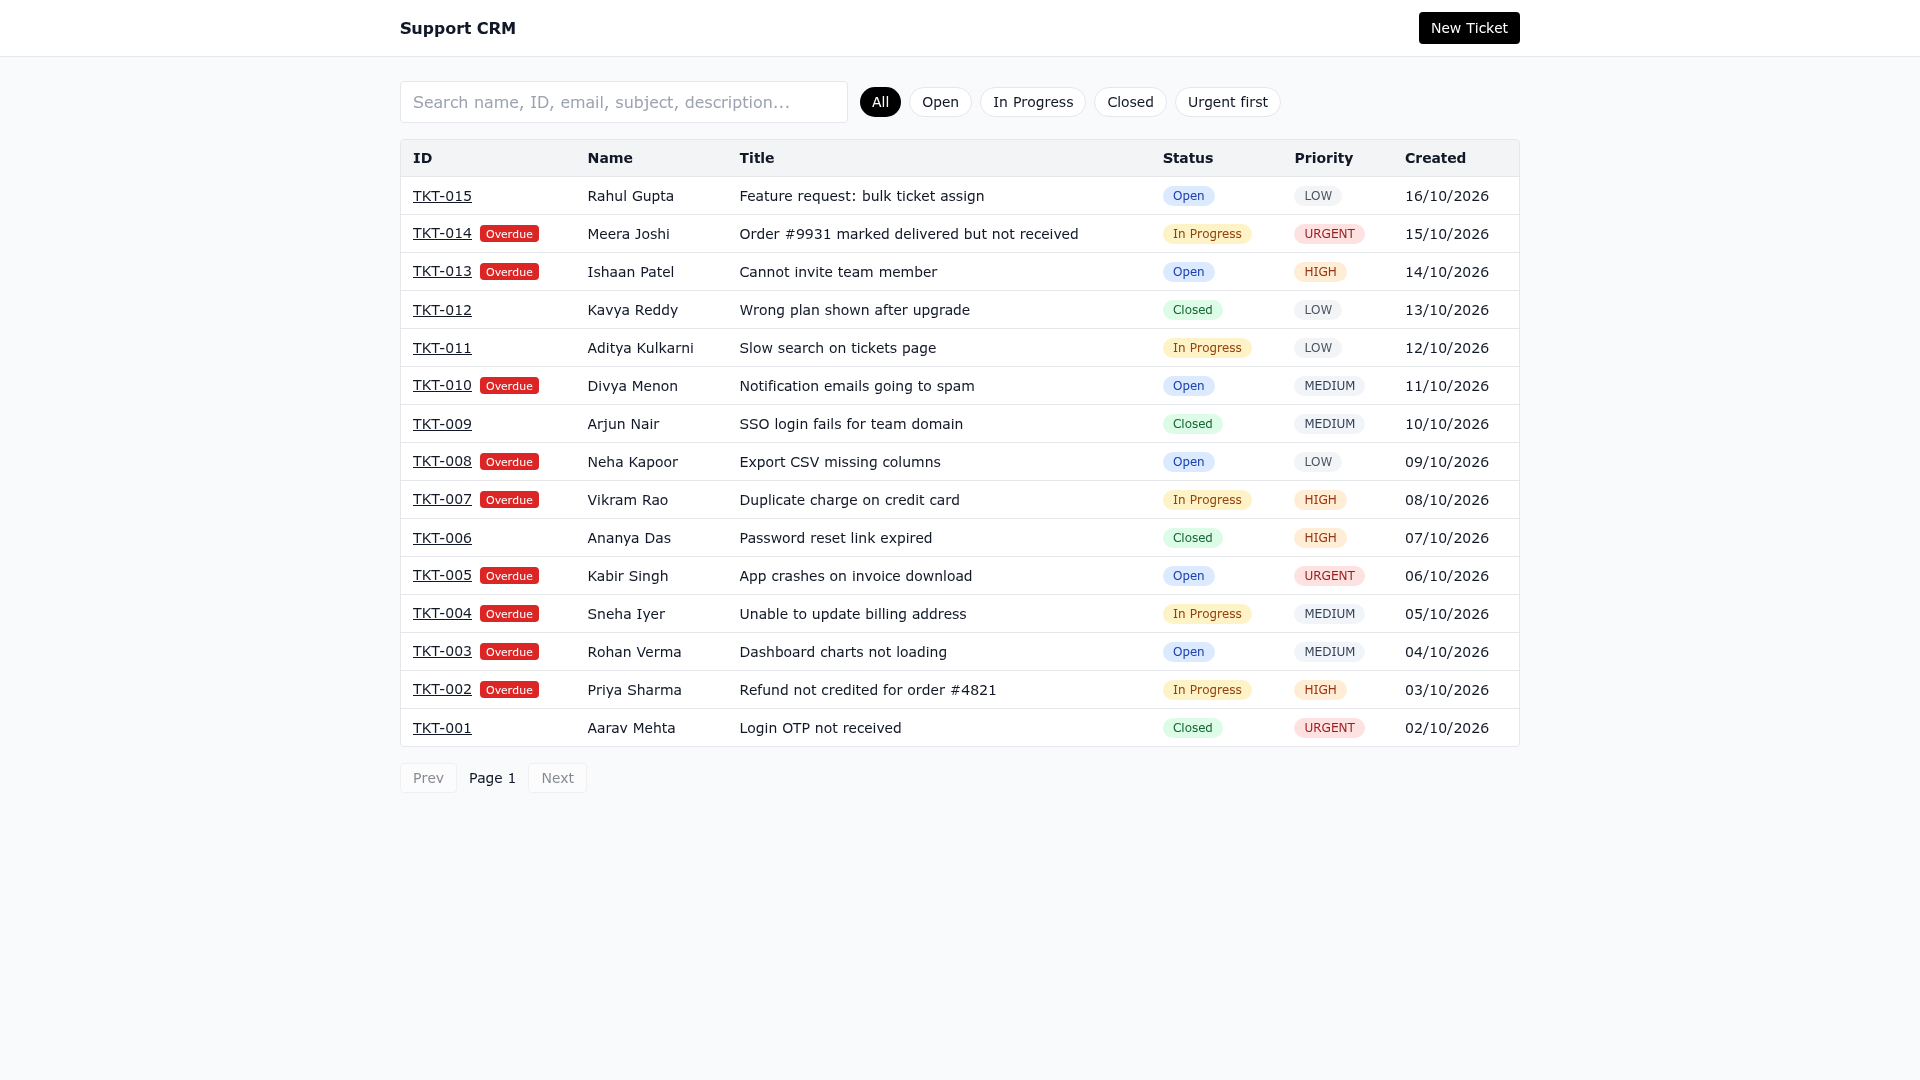
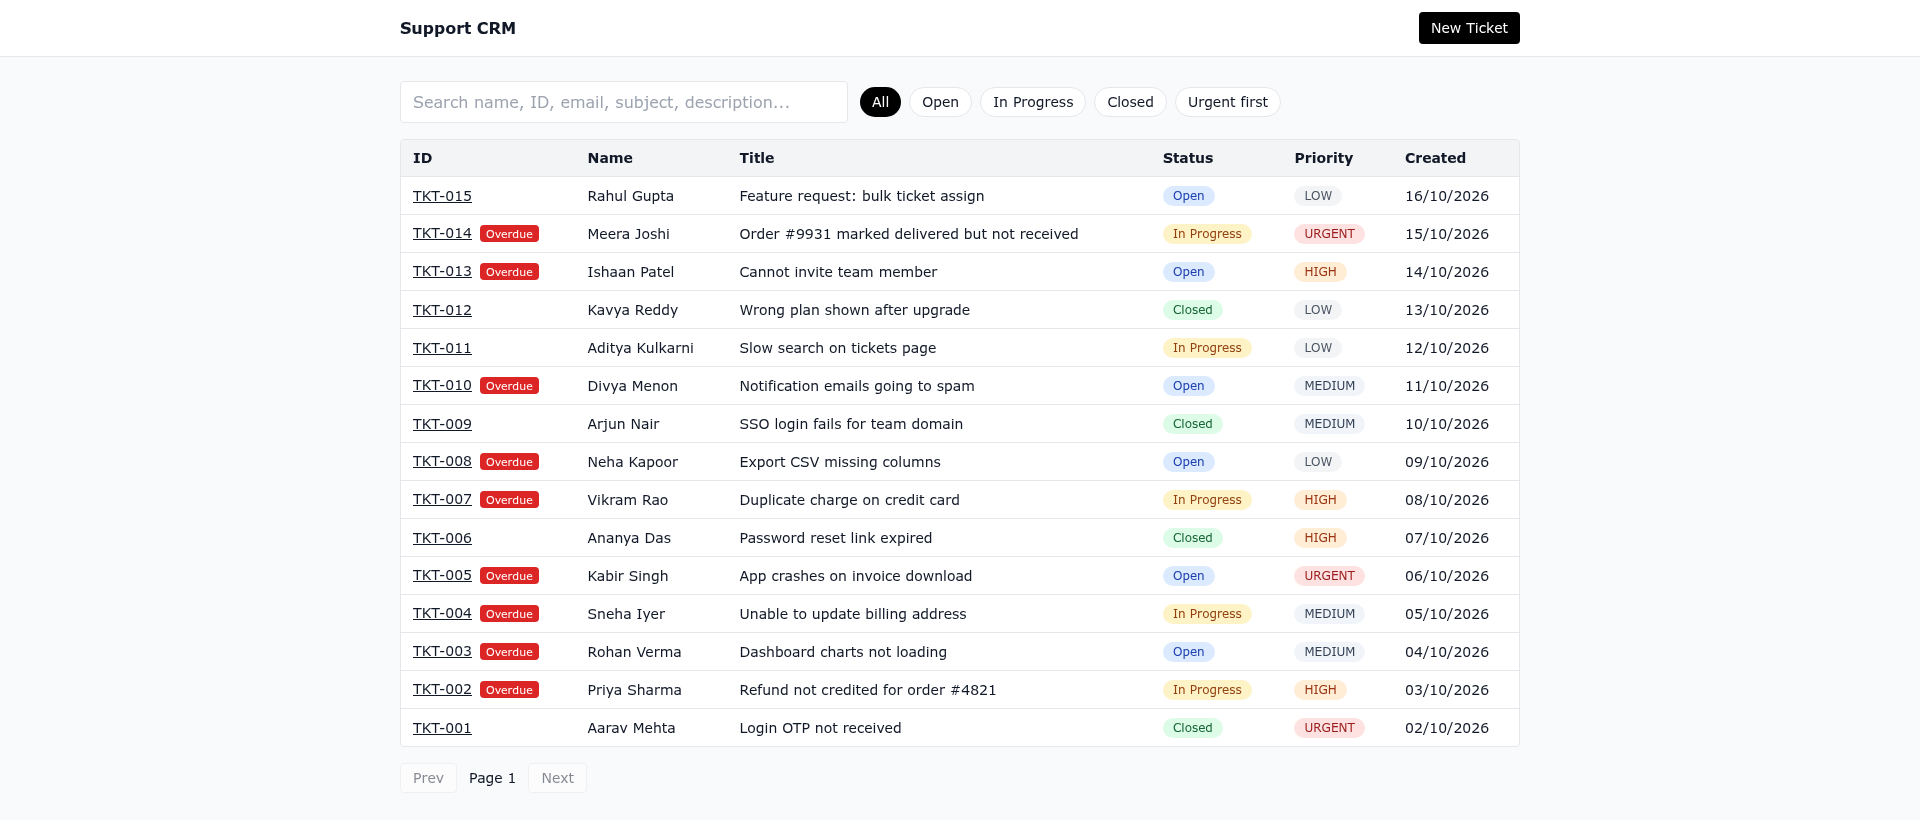
docs: stack screenshots, crop whitespace, polish README

diff --git a/README.md b/README.md
@@ -9,7 +9,7 @@
 </p>
 
 <p align="center">
-  <img src="https://img.shields.io/badge/Status-In%20Active%20Development-orange" alt="Status">
+  <img src="https://img.shields.io/badge/Status-Live-success" alt="Status">
   &nbsp;
   <img src="https://img.shields.io/badge/NestJS-E0234E?logo=nestjs&logoColor=white" alt="NestJS">
   &nbsp;
@@ -44,9 +44,17 @@ Support CRM is a clean ticketing system for small support teams. Customers raise
 
 ## Screenshots
 
-| Ticket queue | Ticket detail |
-| --- | --- |
-| ![Ticket queue](docs/screenshots/queue.png) | ![Ticket detail](docs/screenshots/detail.png) |
+**Ticket queue** — search, status filter, priorities, and overdue flags
+
+![Ticket queue](docs/screenshots/queue.png)
+
+**Ticket detail** — status/priority updates and notes timeline
+
+![Ticket detail](docs/screenshots/detail.png)
+
+**New ticket** — validated create form
+
+![New ticket form](docs/screenshots/new.png)
 
 ---
 
@@ -78,14 +86,14 @@ Typed monorepo. PostgreSQL is the source of truth, accessed only through the Nes
 
 ## Tech Stack
 
-| Layer      | Technology                           |
-| ---------- | ------------------------------------ |
-| Runtime    | Node.js 20                           |
-| Backend    | NestJS                               |
-| Frontend   | Next.js + Tailwind CSS               |
-| Language   | TypeScript                           |
-| Database   | PostgreSQL + Prisma                  |
-| Deployment | Render (API) + Vercel (Web) + Neon   |
+| Layer      | Technology                         |
+| ---------- | ---------------------------------- |
+| Runtime    | Node.js 20                         |
+| Backend    | NestJS                             |
+| Frontend   | Next.js + Tailwind CSS             |
+| Language   | TypeScript                         |
+| Database   | PostgreSQL + Prisma                |
+| Deployment | Render (API) + Vercel (Web) + Neon |
 
 ---
 
@@ -108,7 +116,7 @@ Typed monorepo. PostgreSQL is the source of truth, accessed only through the Nes
 ### Detail & Collaboration
 
 - Full ticket view with contact info, subject, and description
-- Status and priority updates with dirty-checking
+- Status and priority updates (only changed fields are sent)
 - Notes timeline with `en-IN` timestamps
 
 ### Platform
@@ -139,6 +147,8 @@ support-crm/
 │           └── lib/
 ├── render.yaml
 ├── package.json
+├── LICENSE
+├── docs/screenshots/
 └── README.md
 ```
 
@@ -185,7 +195,7 @@ NEXT_PUBLIC_API_URL="http://localhost:4000/api"
 
 ```bash
 npx prisma migrate deploy --schema apps/api/prisma/schema.prisma
-npx prisma db seed
+npm run prisma:seed --workspace apps/api
 ```
 
 ### 4. Run
@@ -206,14 +216,14 @@ Once running:
 
 ## API Overview
 
-| Method | Endpoint               | Body / Query                                                  | Returns                                                        |
-| ------ | ---------------------- | ------------------------------------------------------------- | -------------------------------------------------------------- |
-| POST   | `/api/tickets`         | `{ customer_name, customer_email, subject, description, priority? }` | `{ ticket_id, created_at }`                            |
-| GET    | `/api/tickets`         | `?status=Open&search=&priority=HIGH&page=&limit=`             | `[{ ticket_id, customer_name, subject, status, priority, sla_due_at, overdue, created_at }]` |
-| GET    | `/api/tickets/:ticketId` | —                                                           | `{ ticket_id, customer_name, customer_email, subject, description, status, priority, sla_due_at, overdue, created_at, updated_at, notes[] }` |
-| PUT    | `/api/tickets/:ticketId` | `{ status?, priority?, notes? }`                            | `{ success: true, updated_at }`                                |
+| Method | Endpoint                 | Description                              |
+| ------ | ------------------------ | ---------------------------------------- |
+| POST   | `/api/tickets`           | Create a ticket, returns its ID          |
+| GET    | `/api/tickets`           | List tickets, optional status + search   |
+| GET    | `/api/tickets/:ticketId` | Full ticket with notes, 404 if missing   |
+| PUT    | `/api/tickets/:ticketId` | Update status/priority, add a note       |
 
-Status accepts `Open` / `In Progress` / `Closed`. Unknown IDs return 404. Extras (`priority`, `sla_due_at`, `overdue`, `page/limit`) are additive and backward-compatible.
+Status accepts `Open` / `In Progress` / `Closed`. List and detail responses also include `priority`, `sla_due_at`, and `overdue`.
 
 ---
 
@@ -229,4 +239,4 @@ Status accepts `Open` / `In Progress` / `Closed`. Unknown IDs return 404. Extras
 
 ## License
 
-MIT
+Licensed under the [MIT License](LICENSE).
